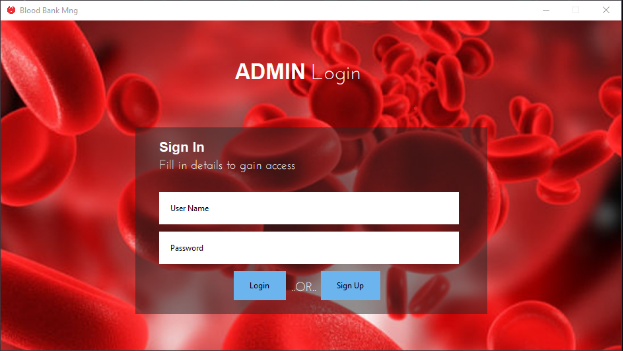
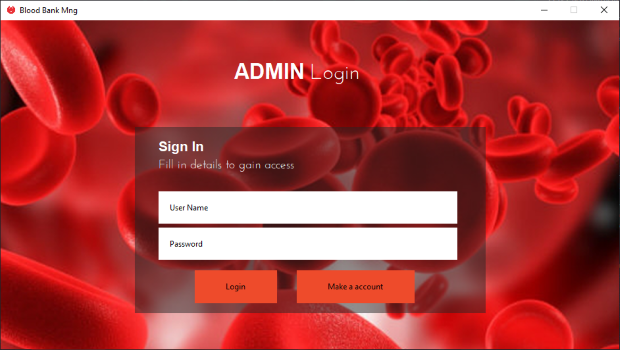
changes

diff --git a/v3-proj/authenticate.py b/v3-proj/authenticate.py
@@ -12,8 +12,10 @@ class SelectAuthType:
         self.auth_canvas.pack(side = "top", fill = "both", expand = True)
 
         standard_look = {"anchor": "nw", "fill":"white"}
-        self.login_choice = create_button(root, 'Login to Account', 100, 100, comman=app.doLogin)
-        self.signup_choice = create_button(root, 'Create A Account', 100, 100, comman=app.doLogin)
+        # self.login_choice = create_button(root, "Login as a User", 375, 260, comman=app.doLogin)
+        # self.signup_choice = create_button(root, 'Login as Administrator', 360, 350, command=app.doLogin)
+
+        self.auth_canvas.create_text(330, 100, text='Choose a Login', font=('Josefin Sans', 25), **standard_look)
 
 
 class AdminLogin:
@@ -39,13 +41,13 @@ class AdminLogin:
         self.user_name.bind('<FocusIn>', lambda event: setText(self.user_name, 'User Name'))
         self.user_name.bind('<FocusOut>', lambda event: restoreText(self.user_name, 'User Name'))
 
-        self.user_pass = create_entry(root, 240, 320, 'Password', width=70)
+        self.user_pass = create_entry(root, 240, 315, 'Password', width=70)
         self.user_pass.bind('<FocusIn>', lambda event: setText(self.user_pass, 'Password'))
         self.user_pass.bind('<FocusOut>', lambda event: restoreText(self.user_pass, 'Password'))
         self.user_pass.bind('<Return>',  lambda event: m.loginSubm(self.user_name.get(), self.user_pass.get()))
 
-        self.submit_button = create_button(root, 'Login', 320, 380, command= lambda: m.loginSubm(self.user_name.get(), self.user_pass.get()))
-        self.signin_button = create_button(root, 'Sign Up', 460, 380, command=switchL_S)
+        self.submit_button = create_button(root, 'Login', 295, 380, command= lambda: m.loginSubm(self.user_name.get(), self.user_pass.get()))
+        self.signin_button = create_button(root, 'Make a account', 450, 380, command=switchL_S)
 
 
 class AdminSignUp:

diff --git a/v3-proj/helper.py b/v3-proj/helper.py
@@ -38,10 +38,10 @@ def create_entry(control, varx, vary, text, *args, **kwargs):
     return entry
 
 def create_button(control, text, varx, vary, **kwargs):
-    kwargs['activebackground'] = '#6CB4EE'
-    kwargs['background'] = '#6CB4EE'       # Update background to correct color if it's not mentioned already
+    kwargs['activebackground'] = '#FF5733'
+    kwargs['background'] = '#EE4B2B'       # Update background to correct color if it's not mentioned already
 
-    button = Button(control, text=text, relief="flat", padx=40, pady=10, **kwargs)
+    button = Button(control, text=text, relief="flat", padx=45, pady=15, bd=0, **kwargs)
     button.pack()
     button.place(x=varx, y=vary)
     return button

diff --git a/v3-proj/__main__.py b/v3-proj/__main__.py
@@ -85,7 +85,7 @@ class BloodBankApp:
             6: blob
         }
     
-    def auth(self):
+    def authenticate(self):
         from authenticate import SelectAuthType
         SelectAuthType()
 

diff --git a/README.md b/README.md
@@ -11,7 +11,7 @@ Built to work on windows, should work on linux.
 
 ## Running this
 Install Python **3.7 or newer**, along with MySQL and `mysql-connector-python`
-Update `MYSQL_PASSWORD` variable in `functions.py` to your sql password
+Update `MYSQL_PASSWORD` variable in `functions.py` (in `__main__` for v3) to your sql password
 
 Clone the project
 ```bash
